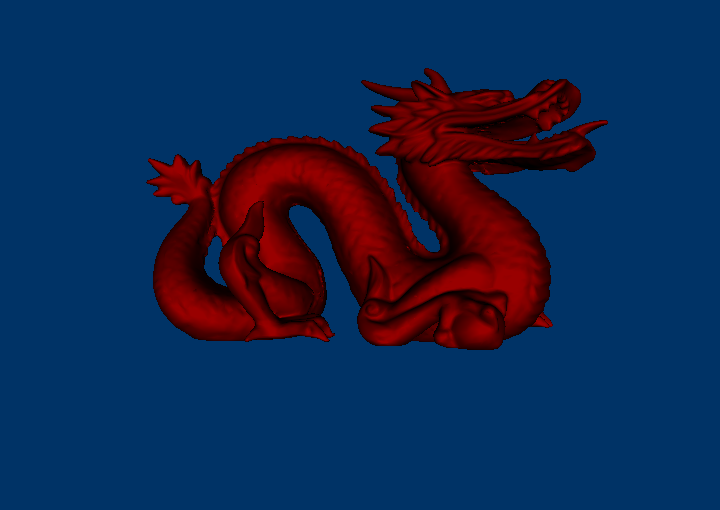
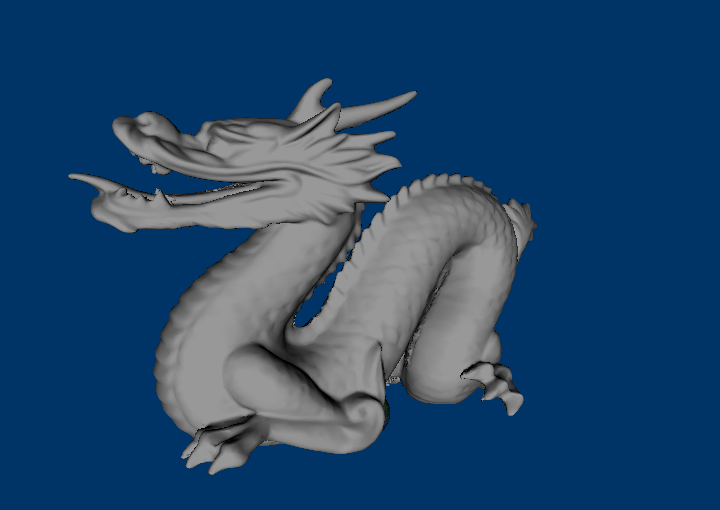
Diffuse Lighting

diff --git a/Src/[12]  Iluminación Difusa/D3D11.cs b/Src/[12]  Iluminación Difusa/D3D11.cs
@@ -298,7 +298,7 @@ namespace _12___Iluminación_Difusa
         public void InitCamera()
         {
             //Camera information
-            Position = new Vector3(0.0f, 1.5f, -17.0f);
+            Position = new Vector3(0.0f, 1.5f, -18.0f);
             Target = new Vector3(0.0f, 0.0f, 0.0f);
             Up = new Vector3(0.0f, 1.0f, 0.0f);
 
@@ -472,7 +472,7 @@ namespace _12___Iluminación_Difusa
             DragonWorld = Matrix.Identity;
             //Define cube1's world space matrix
             Rotation = Matrix.RotationYawPitchRoll(rot, 0, 0);
-            Translation = Matrix.Translation(0.0f, -4.0f, 0.0f);
+            Translation = Matrix.Translation(0.0f, -5.0f, 0.0f);
             //Set cube1's world space using the transformations
             DragonWorld = Rotation * Translation;
         }
